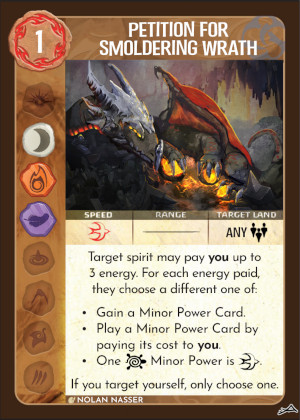
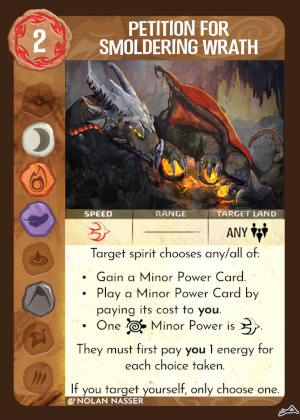
Covets Gleaming Shards of Earth v1.3 (from v1.2.1)
v1.3 https://docs.google.com/document/d/1-E7sDh7zSOZEEkWWwr2Jg1kNuyRNnX-6BjzKXrA69N0/edit
drive https://drive.google.com/drive/folders/1K-G1JjMQP77AXm_r2AndX5O7uOgF7gTX

To not disturb games with v1.2.1, we'll mark them with v1.2.1 aspect and
create v1.2.1 versions of the cards.

diff --git a/pbf/templates/player.html b/pbf/templates/player.html
@@ -64,6 +64,8 @@
       <img style="position: absolute; left: 387px; top: 159px; height: 85px" src="{% static 'pbf/exploratory-shadows-energy.jpg' %}" />
       <img style="position: absolute; left: 588px; top: 254px; width: 72px" src="{% static 'pbf/exploratory-shadows-reclaim1.jpg' %}" />
     {% endif %}
+	{% elif player.spirit.name == 'Covets' %}
+    {# Do nothing! The aspect is handled at the img level #}
         {% else %}
           <img style="position: absolute; left: {{player.aspect_left}}px; top: {{player.aspect_top}}px;" src="{% static player.aspect_url %}" width="370" height="230" />
         {% endif %}
@@ -82,7 +84,16 @@
       {% for threshold in player.thresholds %}
       <img style="position: absolute; left: {{threshold.x}}px; top: {{threshold.y}}px;" src="{% if threshold.achieved %}{% static "pbf/green.svg" %}{% else %}{% static "pbf/red.svg" %}{% endif %}" width="20" height="20" />
       {% endfor %}
-      <img src="{% static player.spirit.url %}" width="957" height="{% if player.spirit.name == "Covets" %}1260{% else %}630{% endif %}" />
+      {% if player.spirit.name == "Covets" %}
+      {# We must not allow arbitrary aspect name to be interpolated into the path! Only allow known-good aspects. #}
+      {% if player.aspect == 'v1.2.1' %}
+      <img src="{% static 'pbf/covets_v1.2.1.jpg' %}" width="957" height="1260" />
+      {% else %}
+      <img src="{% static player.spirit.url %}" width="957" height="1260" />
+      {% endif %}
+      {% else %}
+      <img src="{% static player.spirit.url %}" width="957" height="630" />
+      {% endif %}
     </div>
   </div>
 
@@ -172,7 +183,11 @@
   {% else %}
   <button class="btn" hx-get="{% url 'gain_power' player.id 'major' '4' %}">4 Cards</button>
   {% if player.spirit.name == 'Covets' %}
+  {% if player.aspect == 'v1.2.1' %}
   <button class="btn" hx-get="{% url 'gain_power' player.id 'major' '6' %}">6 Cards</button>
+  {% elif player.aspect >= 'v1.3' %}
+  <button class="btn" hx-get="{% url 'take_powers' player.id 'major' '3' %}">Take 3</button>
+  {% endif %}
   {% endif %}
   <button class="btn" hx-get="{% url 'gain_power' player.id 'major' '2' %}">2 Cards</button>
   {% endif %}

diff --git a/pbf/migrations/0056_covets_gleaming_shards_of_earth_v13.py b/pbf/migrations/0056_covets_gleaming_shards_of_earth_v13.py
@@ -1,0 +1,73 @@
+from django.db import migrations, models
+
+def retroactively_label_covets_v11(apps, schema_editor):
+    Spirit = apps.get_model('pbf', 'Spirit')
+    Presence = apps.get_model('pbf', 'Presence')
+    GamePlayer = apps.get_model('pbf', 'GamePlayer')
+    covets = Spirit.objects.get(name='Covets')
+
+    players110 = Presence.objects.filter(left=512, top=123, elements='Fire', energy='', game_player__spirit=covets).values_list('game_player_id', flat=True)
+    GamePlayer.objects.filter(id__in=players110).update(aspect='v1.1')
+
+def label_covets_v121(apps, schema_editor):
+    Spirit = apps.get_model('pbf', 'Spirit')
+    Presence = apps.get_model('pbf', 'Presence')
+    GamePlayer = apps.get_model('pbf', 'GamePlayer')
+    covets = Spirit.objects.get(name='Covets')
+
+    players121 = Presence.objects.filter(left=512, top=158, elements='', energy='', game_player__spirit=covets).values_list('game_player_id', flat=True)
+    GamePlayer.objects.filter(id__in=players121).update(aspect='v1.2.1')
+
+def unlabel_covets_v121(apps, schema_editor):
+    Spirit = apps.get_model('pbf', 'Spirit')
+    Presence = apps.get_model('pbf', 'Presence')
+    GamePlayer = apps.get_model('pbf', 'GamePlayer')
+    covets = Spirit.objects.get(name='Covets')
+
+    players121 = Presence.objects.filter(left=512, top=158, elements='', energy='', game_player__spirit=covets).values_list('game_player_id', flat=True)
+    GamePlayer.objects.filter(id__in=players121).update(aspect='')
+
+def covets_uniques_v121_rename(apps, schema_editor):
+    Card = apps.get_model('pbf', 'Card')
+
+    for name in ('Melt Earth to Slag', 'Petition for Smoldering Wrath', 'Favors of Steel and Bone'):
+        Card.objects.filter(name=name).update(name=f"{name} v1.2.1", spirit=None)
+
+def covets_uniques_v121_unrename(apps, schema_editor):
+    Card = apps.get_model('pbf', 'Card')
+    Spirit = apps.get_model('pbf', 'Spirit')
+    covets = Spirit.objects.get(name='Covets')
+
+    for name in ('Melt Earth to Slag', 'Petition for Smoldering Wrath', 'Favors of Steel and Bone'):
+        Card.objects.filter(name=f"{name} v1.2.1").update(name=name, spirit=covets)
+
+def covets_add_v13_uniques(apps, schema_editor):
+    Card = apps.get_model('pbf', 'Card')
+    Spirit = apps.get_model('pbf', 'Spirit')
+    covets = Spirit.objects.get(name='Covets')
+
+    unique = 2
+    fast = 1
+    slow = 2
+
+    Card(name="Favors of Steel and Bone",      cost=1, type=unique, speed=fast, spirit=covets, elements="Sun,Earth,Animal").save()
+    Card(name="Melt Earth to Slag",            cost=1, type=unique, speed=slow, spirit=covets, elements="Sun,Moon,Fire,Earth").save()
+    Card(name="Petition for Smoldering Wrath", cost=2, type=unique, speed=fast, spirit=covets, elements="Moon,Fire,Air,Earth").save()
+
+def covets_rm_v13_uniques(apps, schema_editor):
+    Card = apps.get_model('pbf', 'Card')
+
+    for name in ('Melt Earth to Slag', 'Petition for Smoldering Wrath', 'Favors of Steel and Bone'):
+        Card.objects.get(name=name).delete()
+
+class Migration(migrations.Migration):
+    dependencies = [
+        ('pbf', '0055_gameplayer_bargain_cost_and_paid'),
+    ]
+
+    operations = [
+        migrations.RunPython(retroactively_label_covets_v11, migrations.RunPython.noop),
+        migrations.RunPython(label_covets_v121, unlabel_covets_v121),
+        migrations.RunPython(covets_uniques_v121_rename, covets_uniques_v121_unrename),
+        migrations.RunPython(covets_add_v13_uniques, covets_rm_v13_uniques),
+    ]

diff --git a/pbf/views.py b/pbf/views.py
@@ -155,7 +155,7 @@ def game_setup(request, game_id):
             ('Waters', 'Wounded Waters Bleeding', ()),
         ],
         'Apocrypha': [
-            ('Covets', 'Covets Gleaming Shards of Earth v1.2.1 [Apocrypha]', ()),
+            ('Covets', 'Covets Gleaming Shards of Earth [Apocrypha]', ('NO BASE', 'v1.3')),
             ('Rot', 'Spreading Rot Renews the Earth [Apocrypha]', ('Round Down',)),
         ],
         'Exploratory Testing': [
@@ -371,12 +371,12 @@ spirit_presence = {
                 (441,254,1.0), (512,254,1.0,'','Rot'), (582,254,1.0), (654,254,1.0,'','Moon'), (724,254,1.0), (796,254,1.0),
                 ),
         'Covets': (
-                (441,158,1.0,'1'), (512,158,1.0), (582,158,1.0,'3'), (654,158,1.0,'','Earth'), (725,158,1.0,'','Fire,Animal'), (796,158,1.0,'5'),
-                (441,279,1.0,'','Air'), (512,279,1.0,''), (582,279,1.0,'','Sun'), (654,244,1.0,'','Fire'), (654,314,1.0,'','Animal'), (724,279,1.0),
+                (441,158,1.0,'1'), (512,158,1.0,'','Fire'), (582,158,1.0,'2','Animal'), (654,158,1.0,'3','Earth'), (725,158,1.0,'4'), (796,158,1.0), (867,158,1.0,'5'),
+                (441,279,1.0,'','Sun'), (512,279,1.0,''), (582,279,1.0,'','Air'), (654,279,1.0,'','Animal'), (724,279,1.0),
                 # hoard one-time bonuses
                 (176,700,0.0), (176,815,0.0),
                 # hoard forms (passive bonuses)
-                (368,700,0.0), (332,815,0.0), (332,950,0.0),
+                (332,700,0.0), (332,815,0.0), (332,950,0.0),
                 # hoard innates
                 (605,700,0.0), (605,855,0.0), (605,1005,0.0),
                 # hoard any element spaces

diff --git a/pbf/models.py b/pbf/models.py
@@ -359,7 +359,8 @@ class GamePlayer(models.Model):
             'Fractured': 'Time',
             'Rot': 'Rot',
             'Round DownRot': 'Rot',
-            'Covets': 'Metal',
+            'v1.2.1Covets': 'Metal',
+            'v1.3Covets': 'Metal',
             'UnconstrainedFangs': 'Prepared Beasts',
             'Shifting': 'Prepared Elements',
             'IntensifyShifting': 'Prepared Elements',
@@ -1233,7 +1234,7 @@ spirit_thresholds = {
             (645, 555, '2W'),
             (645, 590, '4W3P'),
             ],
-        'Covets': [
+        'v1.2.1Covets': [
             (360, 487, '1E'),
             (360, 522, '1F2A2E'),
             (360, 580, '2S2F3E'),
@@ -1248,6 +1249,28 @@ spirit_thresholds = {
             (667, 1052, '1S1E1N'),
             (667, 1081, '3S1E2N'),
             (667, 1110, '3S2E3N'),
+            ],
+        'v1.3Covets': [
+            # Scent of Shining Earth
+            (360, 487, '1E'),
+            (360, 522, '2F2E'),
+            (360, 555, '2A3E'),
+            (360, 590, '4E'),
+            # Threats, Demands, and Intimidation
+            (650, 487, '2S2E'),
+            (650, 522, '2E2N'),
+            # Violent Outburst
+            (667, 750, '2F'),
+            (667, 779, '3F2E2N'),
+            (667, 807, '4F3E3N'),
+            # Harrowing Gaze
+            (667, 902, '2A'),
+            (667, 931, '3A2E2N'),
+            (667, 960, '4A3E3N'),
+            # Imposing Demands
+            (667, 1052, '2S'),
+            (667, 1081, '3S2E2N'),
+            (667, 1110, '4S3E3N'),
             ],
         }
 
